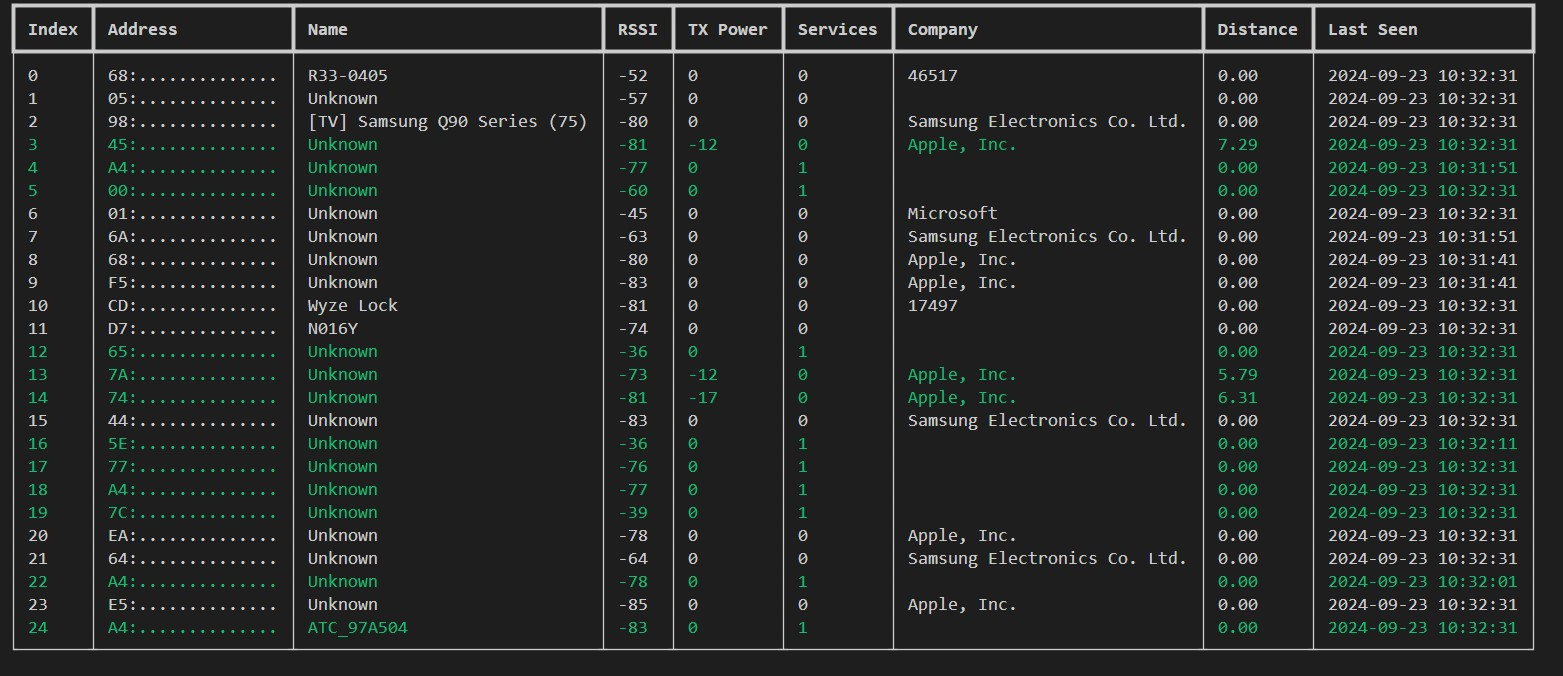
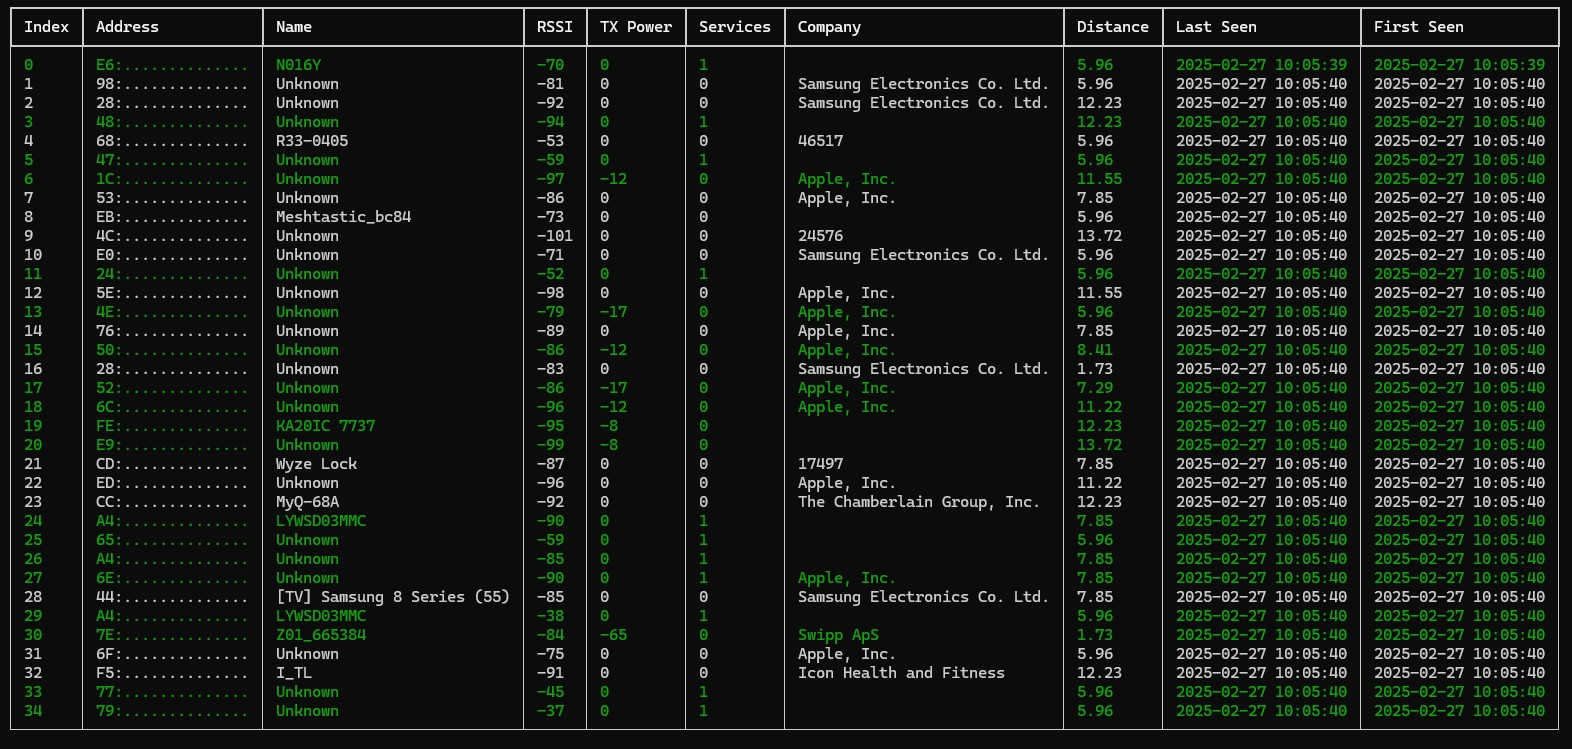
Estimate device distances without tx power

diff --git a/index.py b/index.py
@@ -1,40 +1,4 @@
-# NOTE: Some sensitive information has been removed such as MAC Addresses and names
-# ┏━━━━━━━┳━━━━━━━━━━━━━━━━━━━┳━━━━━━━━━━━━━━━━━━━━━━━━━━━━━━┳━━━━━━┳━━━━━━━━━━┳━━━━━━━━━━┳━━━━━━━━━━━━━━━━━━━━━━━━━━━━━━┳━━━━━━━━━━┳━━━━━━━━━━━━━━━━━━━━━┓
-# ┃ Index ┃ Address           ┃ Name                         ┃ RSSI ┃ TX power ┃ Services ┃ Company                      ┃ Distance ┃ Last Seen           ┃
-# ┡━━━━━━━╇━━━━━━━━━━━━━━━━━━━╇━━━━━━━━━━━━━━━━━━━━━━━━━━━━━━╇━━━━━━╇━━━━━━━━━━╇━━━━━━━━━━╇━━━━━━━━━━━━━━━━━━━━━━━━━━━━━━╇━━━━━━━━━━╇━━━━━━━━━━━━━━━━━━━━━┩
-# │     0 │ 00:00:00:00:00:00 │ Unknown                      │ -39  │ 0        │ 0        │ Microsoft                    │ 0.00     │ 2024-09-18 15:11:42 │
-# │     1 │ 00:00:00:00:00:00 │ [TV] Samsung Q90 Series (75) │ -82  │ 0        │ 0        │ Samsung Electronics Co. Ltd. │ 0.00     │ 2024-09-18 15:11:42 │
-# │     2 │ 00:00:00:00:00:00 │ Wyze Lock                    │ -85  │ 0        │ 0        │ 17497                        │ 0.00     │ 2024-09-18 15:11:42 │
-# │     3 │ 00:00:00:00:00:00 │ R33-0405                     │ -38  │ 0        │ 0        │ 46517                        │ 0.00     │ 2024-09-18 15:11:42 │
-# │     4 │ 00:00:00:00:00:00 │ Unknown                      │ -80  │ 0        │ 0        │ Samsung Electronics Co. Ltd. │ 0.00     │ 2024-09-18 15:11:42 │
-# │     5 │ 00:00:00:00:00:00 │ Unknown                      │ -81  │ -17      │ 0        │ Apple, Inc.                  │ 6.31     │ 2024-09-18 15:11:42 │
-# │     6 │ 00:00:00:00:00:00 │ Unknown                      │ -34  │ 0        │ 1        │                              │ 0.00     │ 2024-09-18 15:11:02 │
-# │     7 │ 00:00:00:00:00:00 │ N016Y                        │ -74  │ 0        │ 1        │                              │ 0.00     │ 2024-09-18 15:11:32 │
-# │     8 │ 00:00:00:00:00:00 │ Unknown                      │ -62  │ 0        │ 0        │ Apple, Inc.                  │ 0.00     │ 2024-09-18 15:11:02 │
-# │     9 │ 00:00:00:00:00:00 │ Unknown                      │ -37  │ 0        │ 1        │                              │ 0.00     │ 2024-09-18 15:11:42 │
-# │    10 │ 00:00:00:00:00:00 │ Unknown                      │ -83  │ -8       │ 0        │ Apple, Inc.                  │ 8.66     │ 2024-09-18 15:10:02 │
-# │    11 │ 00:00:00:00:00:00 │ Unknown                      │ -58  │ 0        │ 1        │                              │ 0.00     │ 2024-09-18 15:11:32 │
-# │    12 │ 00:00:00:00:00:00 │ Z01_665384                   │ -78  │ -65      │ 0        │ Swipp ApS                    │ 1.45     │ 2024-09-18 15:11:42 │
-# │    13 │ 00:00:00:00:00:00 │ LYWSD03MMC                   │ -82  │ 0        │ 1        │                              │ 0.00     │ 2024-09-18 15:11:42 │
-# │    14 │ 00:00:00:00:00:00 │ ATC_97A504                   │ -82  │ 0        │ 1        │                              │ 0.00     │ 2024-09-18 15:11:22 │
-# │    15 │ 00:00:00:00:00:00 │ ATC_C2F4FE                   │ -81  │ 0        │ 1        │                              │ 0.00     │ 2024-09-18 15:10:12 │
-# │    16 │ 00:00:00:00:00:00 │ LYWSD03MMC                   │ -80  │ 0        │ 1        │                              │ 0.00     │ 2024-09-18 15:11:42 │
-# │    17 │ 00:00:00:00:00:00 │ Unknown                      │ -83  │ 0        │ 0        │ Apple, Inc.                  │ 0.00     │ 2024-09-18 15:10:32 │
-# │    18 │ 00:00:00:00:00:00 │ Unknown                      │ -55  │ 0        │ 1        │                              │ 0.00     │ 2024-09-18 15:11:22 │
-# │    19 │ 00:00:00:00:00:00 │ Unknown                      │ -65  │ 0        │ 0        │ Samsung Electronics Co. Ltd. │ 0.00     │ 2024-09-18 15:11:22 │
-# │    20 │ 00:00:00:00:00:00 │ Unknown                      │ -39  │ 0        │ 1        │                              │ 0.00     │ 2024-09-18 15:11:02 │
-# │    21 │ 00:00:00:00:00:00 │ Unknown                      │ -70  │ -12      │ 0        │ Apple, Inc.                  │ 5.31     │ 2024-09-18 15:11:42 │
-# │    22 │ 00:00:00:00:00:00 │ ATC_E2930E                   │ -80  │ 0        │ 1        │                              │ 0.00     │ 2024-09-18 15:10:52 │
-# │    23 │ 00:00:00:00:00:00 │ Unknown                      │ -69  │ 0        │ 0        │ Apple, Inc.                  │ 0.00     │ 2024-09-18 15:10:22 │
-# │    24 │ 00:00:00:00:00:00 │ Unknown                      │ -38  │ 0        │ 1        │                              │ 0.00     │ 2024-09-18 15:11:02 │
-# │    25 │ 00:00:00:00:00:00 │ Unknown                      │ -44  │ 0        │ 1        │                              │ 0.00     │ 2024-09-18 15:11:22 │
-# │    26 │ 00:00:00:00:00:00 │ Unknown                      │ -54  │ 0        │ 1        │                              │ 0.00     │ 2024-09-18 15:11:42 │
-# │    27 │ 00:00:00:00:00:00 │ Unknown                      │ -66  │ 0        │ 0        │ Samsung Electronics Co. Ltd. │ 0.00     │ 2024-09-18 15:11:42 │
-# │    28 │ 00:00:00:00:00:00 │ Unknown                      │ -58  │ 0        │ 1        │                              │ 0.00     │ 2024-09-18 15:11:22 │
-# │    29 │ 00:00:00:00:00:00 │ Unknown                      │ -45  │ 0        │ 1        │                              │ 0.00     │ 2024-09-18 15:11:32 │
-# │    30 │ 00:00:00:00:00:00 │ Unknown                      │ -35  │ 0        │ 1        │                              │ 0.00     │ 2024-09-18 15:11:32 │
-# └───────┴───────────────────┴──────────────────────────────┴──────┴──────────┴──────────┴──────────────────────────────┴──────────┴─────────────────────┘
-
+"""Entry into bluetooth wos"""
 
 import os
 import sys
@@ -50,6 +14,8 @@ from rich.table import Table
 from rich.console import Console
 from ruamel.yaml import YAML
 from ruamel.yaml.reader import Reader
+import numpy as np
+from scipy import stats
 from bleak import BleakScanner, AdvertisementData, BLEDevice, BleakClient
 from core import (
     device_distance_calculation,
@@ -62,7 +28,7 @@ logging.basicConfig(filename="bluetooth-discovery.log", level=logging.DEBUG)
 
 
 class BleScannerInteractive:
-    """Interactive Bluettooth Scanner"""
+    """Interactive Bluetooth Scanner"""
 
     def __init__(self, redacted_address=False) -> None:
         self._logger = logging.getLogger(__name__)
@@ -138,12 +104,14 @@ class BleScannerInteractive:
             # Iterate through services and characteristics
             for service in client.services:
                 self._console.log(
-                    f"Service: {service.uuid} {service.description} {service.handle} {self.__get_service_name(service.handle)}"
+                    f"Service: {service.uuid} {service.description} {service.handle} {self.__get_entity_name(service.handle, 'service')}"
                 )
 
                 for characteristic in service.characteristics:
-                    self._console.log(f"  Characteristic: {characteristic.uuid}")
-                    self._console.log(f"    Properties: {characteristic.properties}")
+                    self._console.log(
+                        f"  Characteristic: {characteristic.uuid}")
+                    self._console.log(
+                        f"    Properties: {characteristic.properties}")
                     for descriptor in characteristic.descriptors:
                         # descriptor_value = await client.read_gatt_char(descriptor.uuid)
                         self._console.log(
@@ -174,7 +142,8 @@ class BleScannerInteractive:
         if advertisement_data.manufacturer_data:
             for company_id, _ in advertisement_data.manufacturer_data.items():
                 if company_id and company_id != 0:
-                    company = self.__get_company_name(company_id) or str(company_id)
+                    company = self.__get_entity_name(
+                        company_id, 'company') or str(company_id)
                     break
 
         # ensure that rssi and tx power are negative (since that is how it should work!)
@@ -255,32 +224,56 @@ class BleScannerInteractive:
             res += x
         return res
 
-    def __get_service_name(self, value: int):
-        if len(self._services_dict) == 0:
-            # https://stackoverflow.com/a/45871921
-            with open("service_uuids.yaml", "r", encoding="utf-8") as file:
+    def __get_entity_name(self, value: int, entity_type: str) -> str | None:
+        """
+        Get a name for a given value and entity type (service or company).
+
+        Args:
+            value: The integer value to look up
+            entity_type: Type of entity to search for ("service" or "company")
+
+        Returns:
+            The name of the entity if found, None otherwise
+        """
+
+        entity_attributes = {
+            "service": {
+                "dict_attr": "_services_dict",
+                "file_name": "service_uuids.yaml",
+                "root_key": "uuids",
+                "value_key": "uuid",
+            },
+            "company": {
+                "dict_attr": "_company_dict",
+                "file_name": "company_identifiers.yaml",
+                "root_key": "company_identifiers",
+                "value_key": "value",
+            }
+        }
+
+        # Check if the requested entity type is supported
+        if entity_type not in entity_attributes:
+            raise ValueError(f"Unknown entity type: {entity_type}")
+
+        attrs = entity_attributes[entity_type]
+        dict_attr = attrs["dict_attr"]
+
+        # Load data if the dictionary is empty
+        if len(getattr(self, dict_attr, {})) == 0:
+            with open(attrs["file_name"], "r", encoding="utf-8") as file:
                 yaml = YAML(typ="safe")
-                self._services_dict = yaml.load(
-                    BleScannerInteractive.strip_invalid(file.read())
+                setattr(
+                    self,
+                    dict_attr,
+                    yaml.load(BleScannerInteractive.strip_invalid(file.read()))
                 )
 
-        for service in self._services_dict["uuids"]:
-            if service["uuid"] == value:
-                return service["name"]
-        return None
+        # Search for the entity
+        entities_dict = getattr(self, dict_attr)
+        for entity in entities_dict[attrs["root_key"]]:
+            if entity[attrs["value_key"]] == value:
+                return entity["name"]
 
-    def __get_company_name(self, value: int) -> str | None:
-        if len(self._company_dict) == 0:
-            # https://stackoverflow.com/a/45871921
-            with open("company_identifiers.yaml", "r", encoding="utf-8") as file:
-                yaml = YAML(typ="safe")
-                self._company_dict = yaml.load(
-                    BleScannerInteractive.strip_invalid(file.read())
-                )
-
-        for company in self._company_dict["company_identifiers"]:
-            if company["value"] == value:
-                return company["name"]
         return None
 
     def __write_current_device_list_csv(self):
@@ -293,7 +286,7 @@ class BleScannerInteractive:
         except Exception as e:
             self._logger.warning(e)
 
-    async def loading(self):
+    async def __loading(self):
         for _ in track(range(self._discovery_timeout + 1), description="Scanning..."):
             await asyncio.sleep(1)
 
@@ -326,12 +319,14 @@ class BleScannerInteractive:
             device, adv = devices_data[device_key]
             self.__callback(device, adv)
 
+        self.calculate_missing_distances_regression()
+
         # update all the missing ones in the table
         for index, (device_key, device_data) in enumerate(self._devices_dict.items()):
             rendered_device_data = []
             device_data[0] = str(index)
             for index_device_data, text_device_data in enumerate(device_data):
-                text = text_device_data
+                text = str(text_device_data)
 
                 # redact addresses
                 if (
@@ -344,35 +339,112 @@ class BleScannerInteractive:
 
             # tx power or services want to be found. highlight them
             style = ""
-            if (
-                abs(
-                    int(
-                        device_data[
-                            self.get_key_index("tx_power", self._devices_columns)
-                        ]
-                    )
-                )
-                > 0
+            if (abs(int(device_data[self.get_key_index("tx_power", self._devices_columns)])) > 0
                 or abs(
                     int(
                         device_data[
-                            self.get_key_index("services", self._devices_columns)
+                            self.get_key_index(
+                                "services", self._devices_columns)
                         ]
                     )
-                )
+            )
                 > 0
             ):
                 style = "green"
             self._table.add_row(*rendered_device_data, style=style)
 
+    def calculate_missing_distances_regression(self):
+        
+        
+        # Step 1: Gather data points from devices with complete information
+        rssi_values = []
+        distance_values = []
+        
+        for device in self._devices_dict.values():
+             if abs(int(device[self.get_key_index("rssi", self._devices_columns)])) > 0 and \
+                    abs(int(device[self.get_key_index("tx_power", self._devices_columns)])) > 0 and \
+                    float(device[self.get_key_index("distance", self._devices_columns)]) > 0:
+                rssi_values.append(abs(int(device[self.get_key_index("rssi", self._devices_columns)])))
+                distance_values.append(float(device[self.get_key_index("distance", self._devices_columns)]))
+        
+        if len(rssi_values) < 3:  # Need sufficient data points
+            return
+        
+        # Step 2: Build a log-based model (since RSSI vs distance typically follows logarithmic relationship)
+        # Log-distance path loss model: distance = 10^((Tx_power - RSSI)/(10*n))
+        # where n is the path loss exponent
+        
+        # Since we don't have TX power, we'll use a simple regression on log of distance
+        log_distances = np.log10(distance_values)
+        slope, intercept, r_value, p_value, std_err = stats.linregress(rssi_values, log_distances)
+        
+        # Step 3: Apply the model to devices without distance
+        for device_id, device in self._devices_dict.items():
+            if abs(int(device[self.get_key_index("tx_power", self._devices_columns)])) == 0:
+                rssi = abs(int(device[self.get_key_index("rssi", self._devices_columns)]))
+                log_distance = slope * rssi + intercept
+                device[self.get_key_index("distance", self._devices_columns)] = "{:.2f}".format(10 ** log_distance)
+
+    def calculate_missing_distances(self):
+        """Calculates the missing distance value given information about other devices"""
+
+        # Step 1: Gather data points from devices with complete information
+        known_data = []
+        for device in self._devices_dict.values():
+            if abs(int(device[self.get_key_index("rssi", self._devices_columns)])) > 0 and \
+                    abs(int(device[self.get_key_index("tx_power", self._devices_columns)])) > 0 and \
+                    float(device[self.get_key_index("distance", self._devices_columns)]) > 0:
+                known_data.append({
+                    'rssi': abs(int(device[self.get_key_index("rssi", self._devices_columns)])),
+                    'distance': float(device[self.get_key_index("distance", self._devices_columns)])
+                })
+
+        if not known_data:
+            return  # Not enough information to make estimates
+
+        # Step 2: Create a simple model relating RSSI to distance - Simple averaging by RSSI value
+        rssi_to_distance = {}
+        rssi_counts = {}
+        for point in known_data:
+            rssi = point['rssi']
+            distance = point['distance']
+
+            if rssi not in rssi_to_distance:
+                rssi_to_distance[rssi] = 0
+                rssi_counts[rssi] = 0
+
+            rssi_to_distance[rssi] += distance
+            rssi_counts[rssi] += 1
+
+        # Calculate average distance for each RSSI value
+        for rssi in rssi_to_distance:
+            rssi_to_distance[rssi] /= rssi_counts[rssi]
+
+        # Step 3: Estimate distances for devices missing TX Power then update them
+        for device_id, device in self._devices_dict.items():
+            if abs(int(device[self.get_key_index("tx_power", self._devices_columns)])) == 0:
+                rssi = abs(
+                    int(device[self.get_key_index("rssi", self._devices_columns)]))
+
+                # Find the closest known RSSI if exact match not available
+                if rssi in rssi_to_distance:
+                    device[self.get_key_index("distance", self._devices_columns)] = "{:.2f}".format(
+                        rssi_to_distance[rssi])
+                else:
+                    # Find closest RSSI value
+                    closest_rssi = min(rssi_to_distance.keys(),
+                                       key=lambda x: abs(x - rssi))
+                    device[self.get_key_index("distance", self._devices_columns)] = "{:.2f}".format(
+                        rssi_to_distance[closest_rssi])
+
     async def run_async(self):
         """async method to start app"""
 
         # Dummy loading screening while devices are being discovered
-        await asyncio.gather(self.__discover_with_data(), self.loading())
+        await asyncio.gather(self.__discover_with_data(), self.__loading())
         self._console.clear()
-        
-        # Keep a live table going 
+
+        # Keep a live table going
         with Live(self._table, console=self._console) as live:
             live.update(self._table)
             while True:

diff --git a/readme.md b/readme.md
@@ -13,6 +13,7 @@
  - Writes a current device list to a csv file.
  - Identifies the company of a device using a public listing.
  - Calculates distance from transmitter and receiver of a device with TX Power and RSSI.
+ - Estimates distance based on devices that have tx power.
  - Removes devices that have not been present for certain amount of time. This combats the "private resolvable random addresses" feature that prevents tracking of devices.
  - Highlights devices that tend to "stick around"
  - Hide device addresses from screen
@@ -37,15 +38,16 @@
 
 ## 🛣 Roadmap
  
- - Resolve services by name
- - Estimates distance from transmitter and receiver of a device given ONLY RSSI if know distance values are present.
- - Configurable columns
- - Fingerprint devices that keep changing MAC addresses
- - Show adv data
- - Go into service data
- - Resolve common service->characteristics such as temp/humidity
- - attempt to keep same indexes of current devices
+ - [ ] Resolve services by name
+ - [x] Estimates distance from transmitter and receiver of a device given ONLY RSSI if know distance values are present.
+ - [ ] Configurable columns
+ - [ ] Fingerprint devices that keep changing MAC addresses
+ - [ ] Show adv data
+ - [ ] Interactive way to go into service data
+ - [ ] Resolve common service->characteristics such as temp/humidity
+ - [ ] attempt to keep same indexes of current devices
  - [x] Load spinner on first load. It's boring to see nothing in a table
+ - [ ] no coloring option
 
 ## 🤝 Contributing
 
